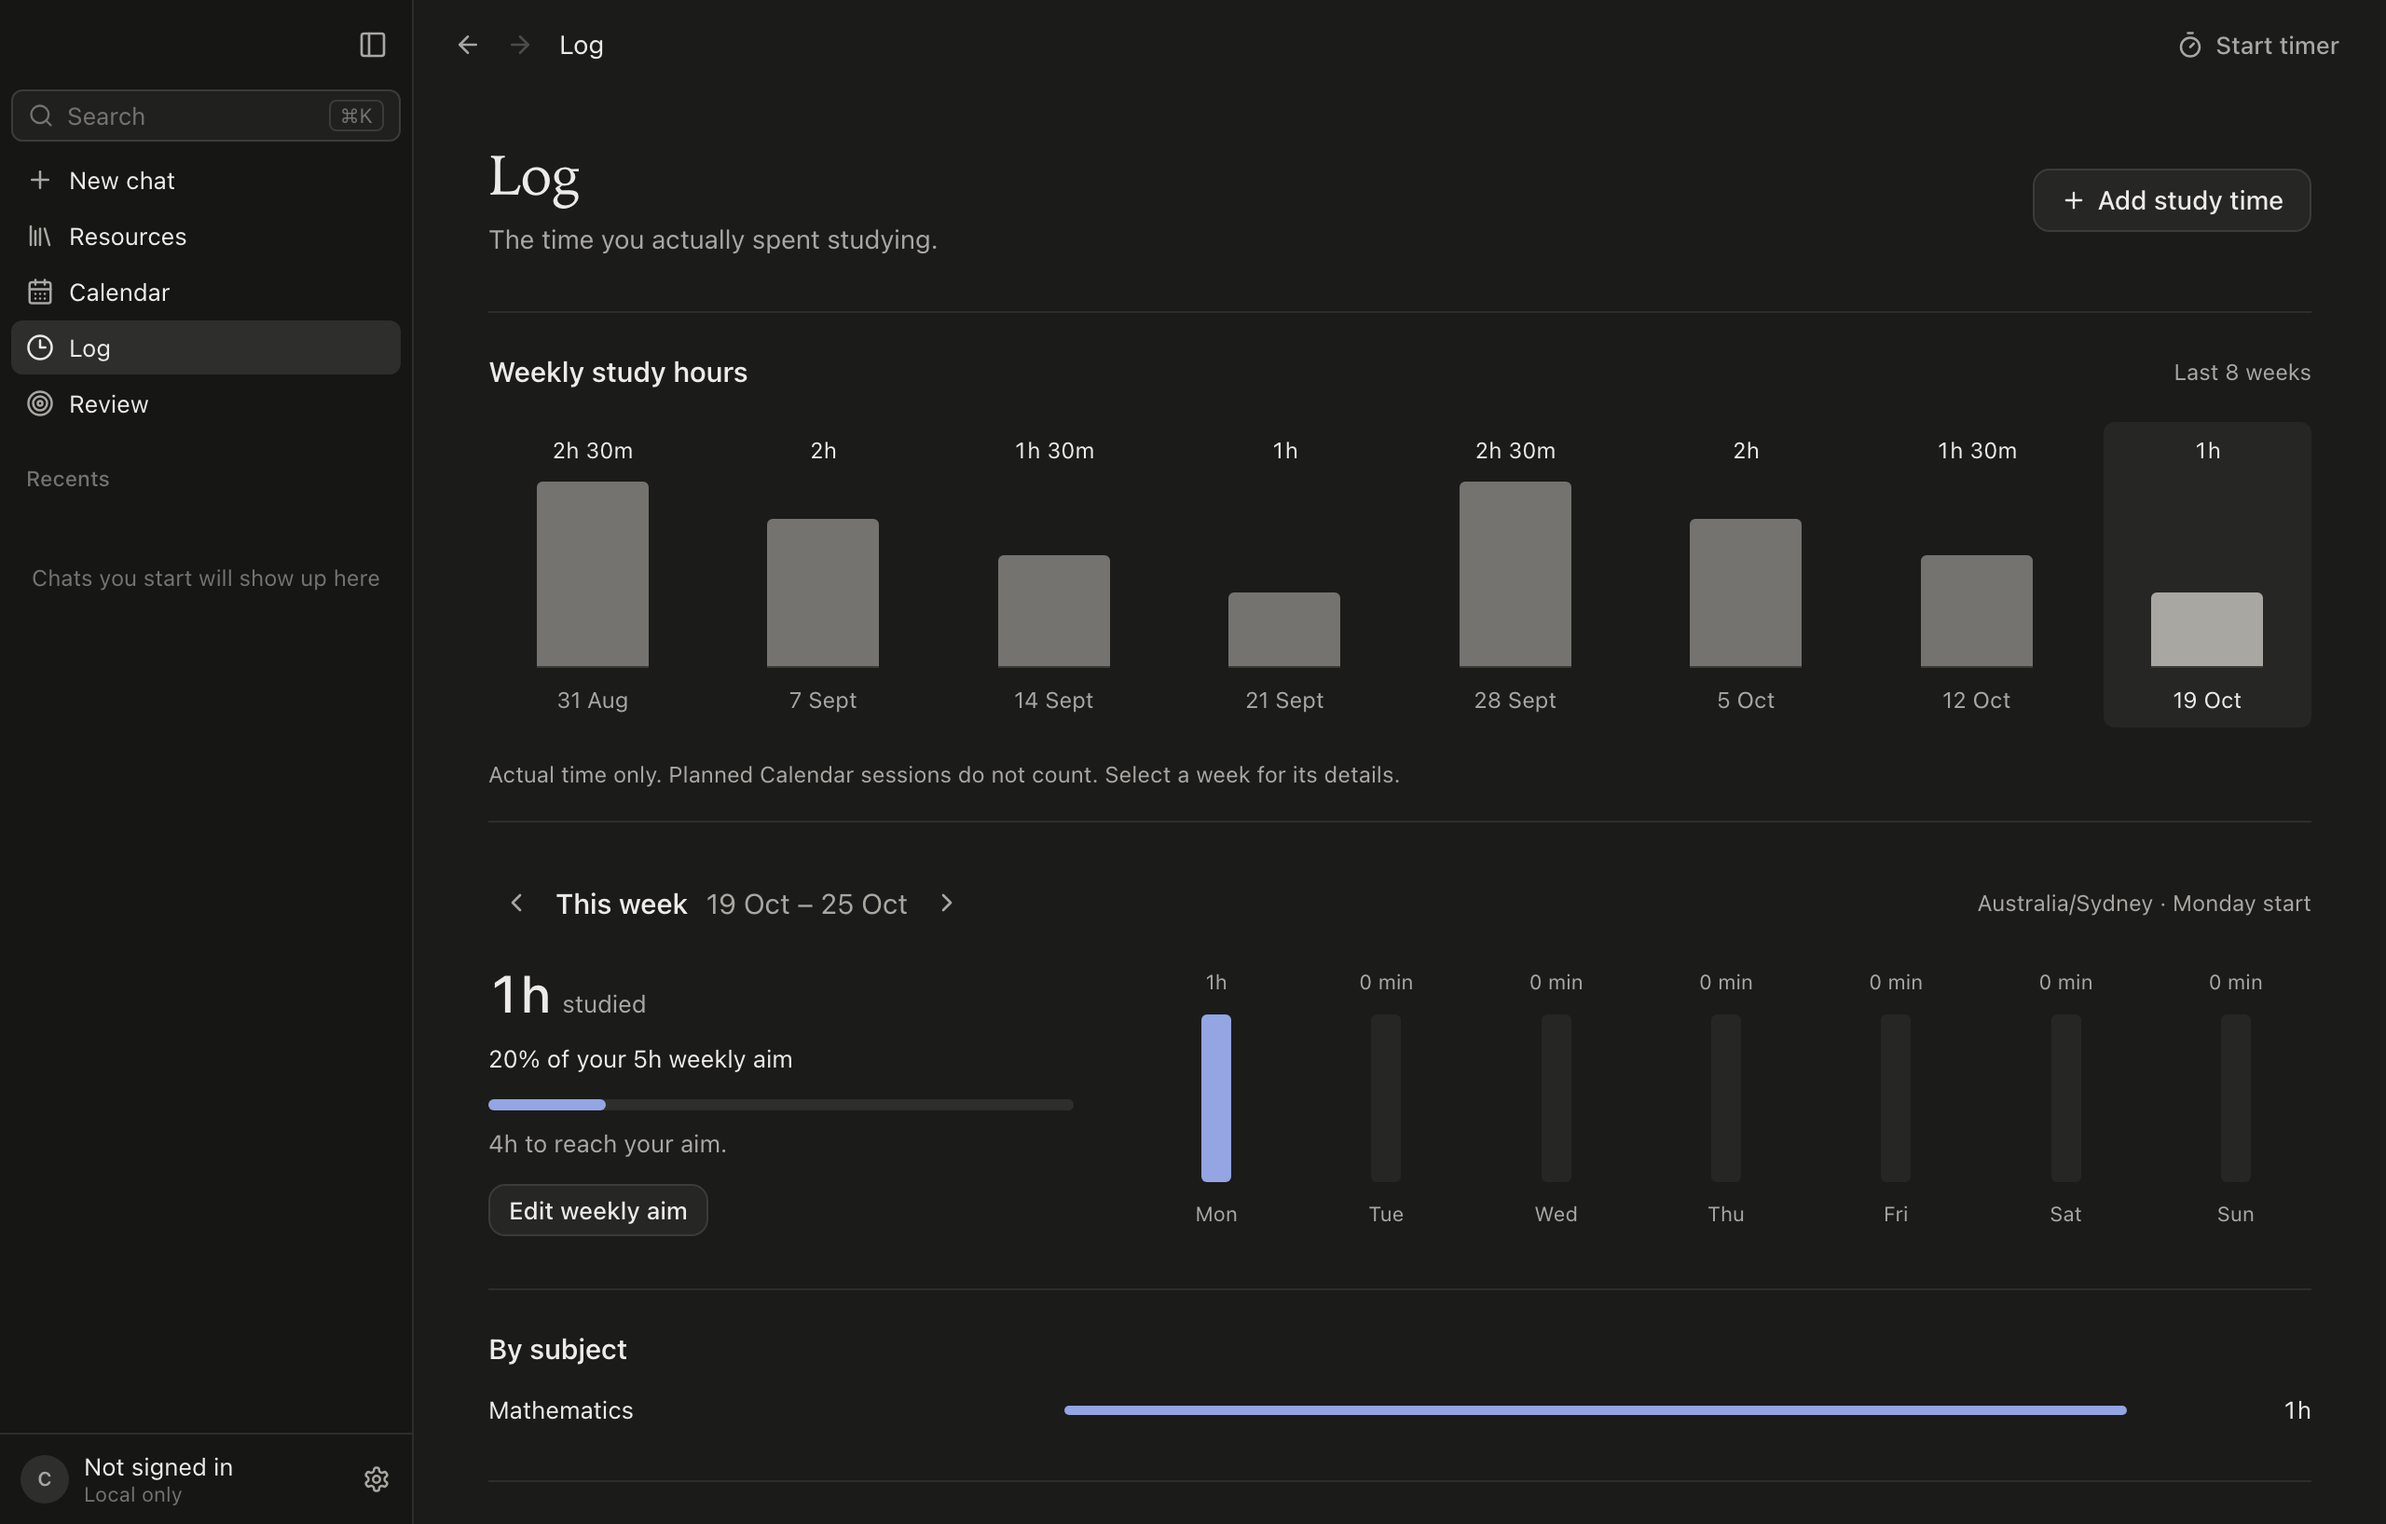
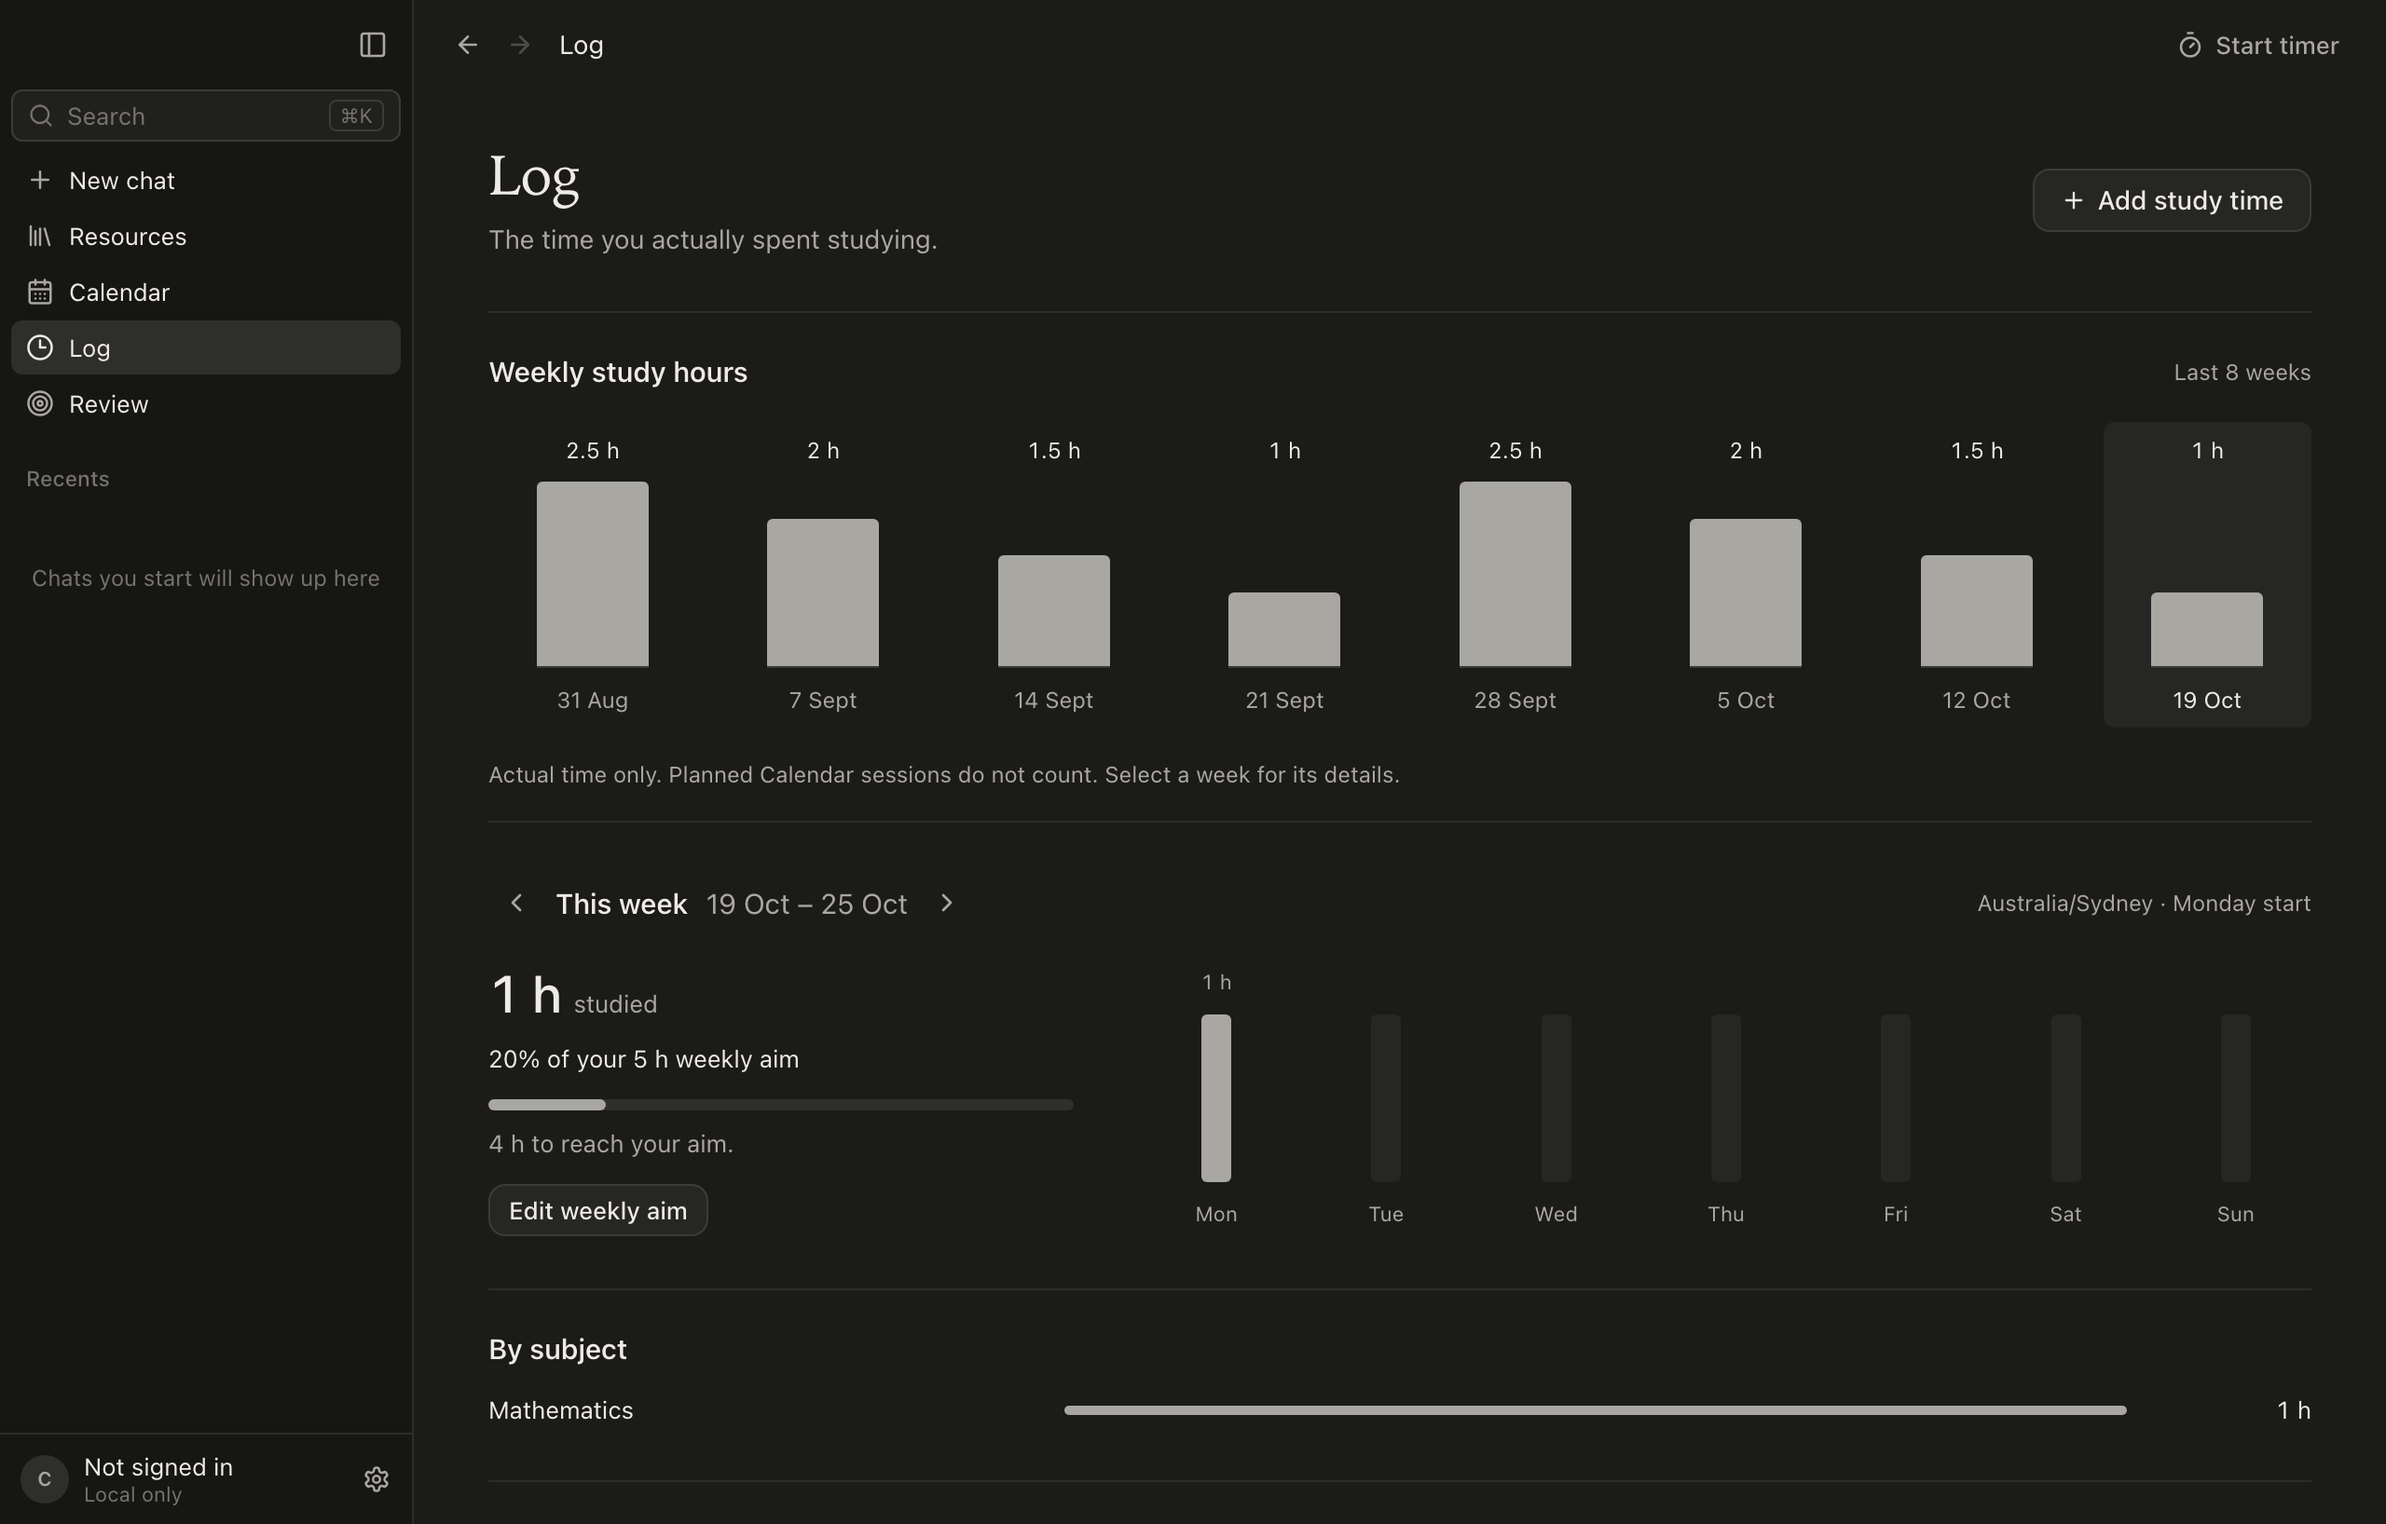
Record corrected Log UI evidence and review findings

diff --git a/docs/evidence/study-log/README.md b/docs/evidence/study-log/README.md
@@ -1,12 +1,15 @@
 # Study Log desktop evidence
 
-These screenshots show the built Electron application using isolated synthetic local study data. They contain no user data and do not demonstrate hosted sync or Google authentication.
+These are actual captures of Centre with isolated synthetic local study data. They do not demonstrate hosted sync or Google authentication.
 
-- `dark.png`: weekly actual hours, explicit aim progress, daily values, and subject attribution. The weekly selection is neutral; zero-time days have no fill.
-- `light-large.png`: the existing light theme and larger text setting.
-- `manual.png`: the real manual entry form with the existing Centre subject/task menus.
-- `recovered.png`: a real second-process restart. The timer recovers paused at its persisted checkpoint and can be resumed or stopped.
+- `dark.png`, `midnight.png`, `light-large.png`: built Electron weekly/daily hours, aims and subject totals using neutral ink and the existing theme/text settings.
+- `manual.png`, `date-picker.png`, `time-suggestions.png`: actual shared date/time controls in the manual/edit form, Australian date order and exact typed minutes without visible seconds.
+- `date-picker-small.png`: the shared picker stays inside Centre's minimum 960×660 desktop window.
+- `aim.png`: the hours/minutes control allows a 5 h 20 min aim, beyond quarter-hour choices.
+- `minimum-desktop.png`: Centre's existing 960px minimum width. The verifier preserves that desktop behavior.
+- `browser-760.png`: T3 browser at exactly 760×900 against the real local fixture server, reproducing the review's 1 h 30 min wrapping case. All seven track tops measured 533.5px. Edit/Delete targets measured 28px.
+- `recovered.png`: a real second-process restart. The timer recovers paused at its persisted checkpoint.
 
-Run `node scripts/verify-study-log.mjs` after the production renderer and Electron builds to reproduce the flows and screenshots. The verifier waits for the Log DOM, finite animations, and compositor frames before capture. It exercises actual local API/IPC persistence with temporary data, without hosted fixtures or provider requests. JSON reports and additional screenshots are saved under ignored `.runtime/`.
+Run `node scripts/verify-study-log.mjs` after renderer and Electron builds. It drives the real production Electron app through desktop IPC and temporary disk state, waits for navigation/animation/paint, then captures the exercised UI. The final run passed 29 initial and 5 restart checks with no renderer errors. Reports and additional captures are written under ignored `.runtime/`.
 
-The independent program design review is a separate quality gate. These captures prove the exercised UI states, not approval of the final design.
+See [verification.json](verification.json) for actual commands, results and limitations, and [design-review-fixes.md](design-review-fixes.md) for the per-finding response. Corrected captures are awaiting the coordinator's live recheck. PR #10 remains draft.

diff --git a/docs/evidence/study-log/design-review-fixes.md b/docs/evidence/study-log/design-review-fixes.md
@@ -1,0 +1,16 @@
+# Round 1 study-log corrections
+
+Source report: the updated program `reviews/design-round1.json` and `round1-fix-assignments.json`, owned by the coordinator. Claude Opus 5.5 medium produced the independent screenshot-backed review. This response covers only this owner's assigned changes.
+
+| Finding | Fix commit | Corrected capture and verification |
+| --- | --- | --- |
+| X-1, shared fields | `eb050d8` shared controls; `faa90f8` Log integration | [Manual](manual.png), [date picker](date-picker.png), [time suggestions](time-suggestions.png), [aim](aim.png). Australian dates, minute-only editable time, optional 15-minute suggestions, full minute duration choices. Native arrow/Escape/focus checks pass. Exact UTC milliseconds persist after a title/notes or same-minute edit. Calendar owns adoption of this same component in its PR. |
+| X-2, neutral states | `eb050d8` global tokens/focus/selection; `faa90f8` local chart/actions | [Dark](dark.png), [light with large text](light-large.png), [midnight](midnight.png). Native checks confirm neutral action/data tokens in all three themes. Global token scope is documented in `docs/date-time-fields.md`; other owners retain their local selectors. |
+| LOG-1, one actual-time encoding | `faa90f8`; zero fill removed in prior `1d506d8` | [Dark](dark.png), [760px](browser-760.png). All four measures use `--data-ink`. Selection is the column background; actual zero values have no filled sliver. Native zero-height assertion passes. |
+| LOG-2, aligned daily labels | `faa90f8` | [760px browser](browser-760.png), [minimum desktop](minimum-desktop.png). Compact hour labels, nowrap/tabular figures and a fixed label row. At exactly 760px, all seven chart track tops measure 533.5px. |
+| LOG-3, zero labels and formats | `faa90f8` plus shared formatter `eb050d8` | [760px browser](browser-760.png). Empty visible labels retain zero values in accessible summaries. `formatDurationMinutes` produces `1 h 30 min`; entry times drop the leading zero. Calendar can import the same formatter. |
+| LOG-4, action targets | `faa90f8` | [760px browser](browser-760.png). Quiet Edit/Delete buttons measure at least 28px; native assertion passes. |
+
+The read-only Sol correctness review also caught selected-time focus, restricted minute values and short-window clipping while the shared controls were built. They were corrected before the focused shared commit. [Minimum-height capture](date-picker-small.png) and native assertions verify picker bounds.
+
+All owned findings have implementation and capture evidence. They remain pending the coordinator's visual recheck. No new Claude review was started. Nothing was merged, deployed or migrated remotely.
